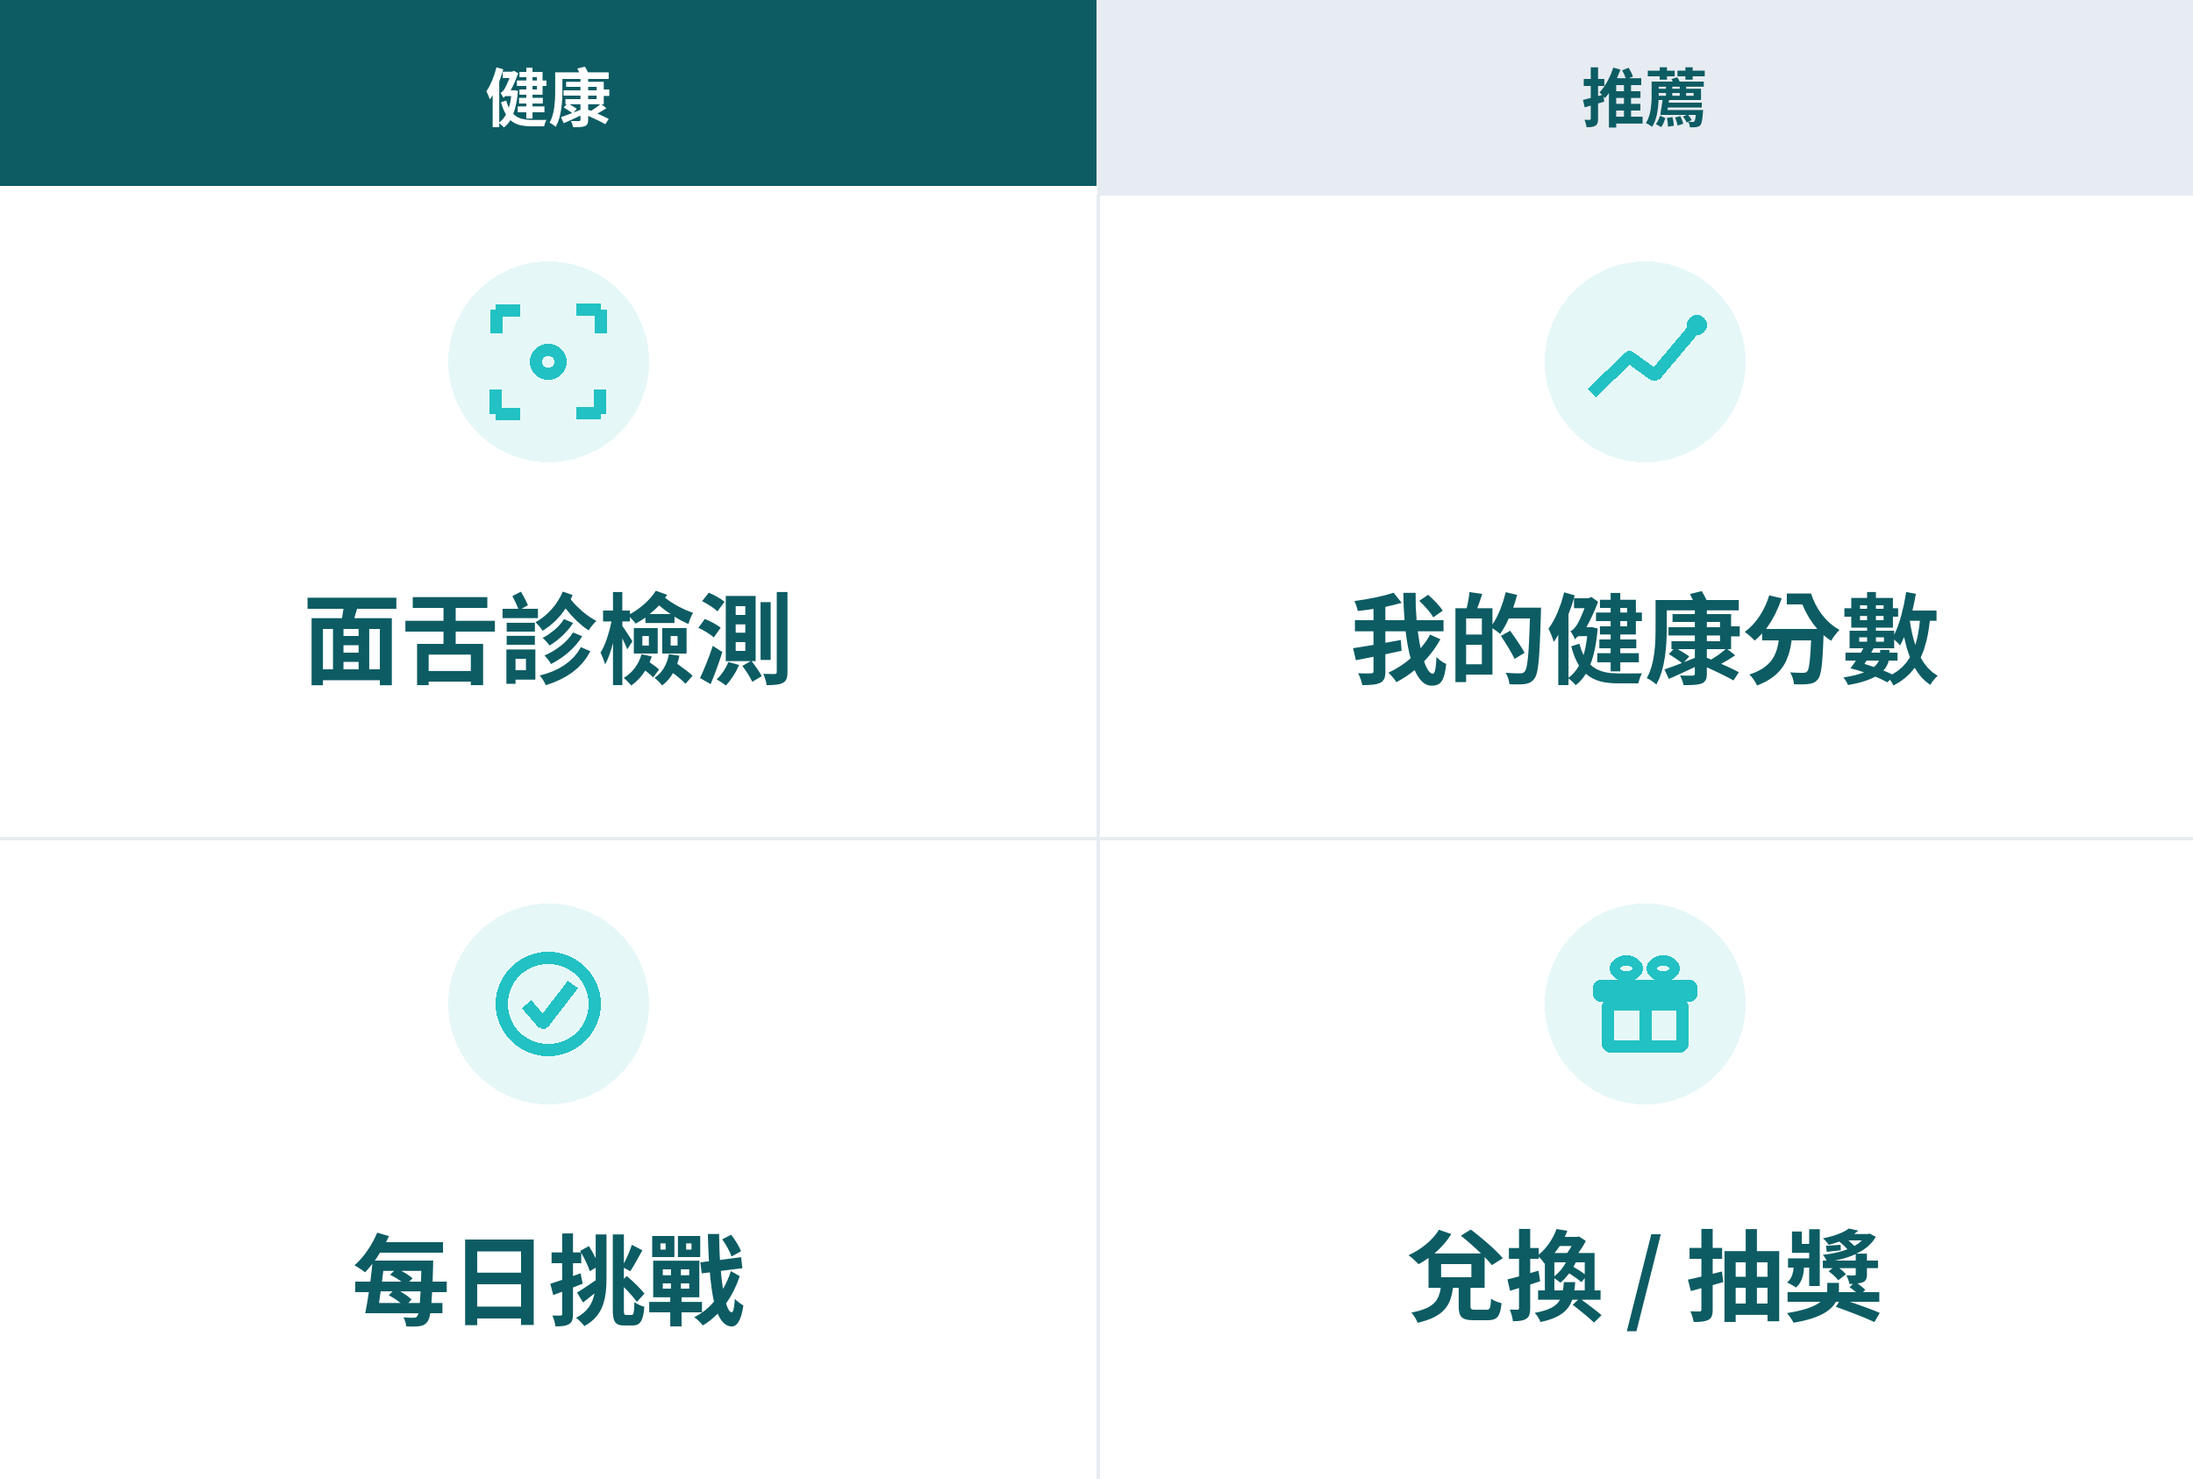
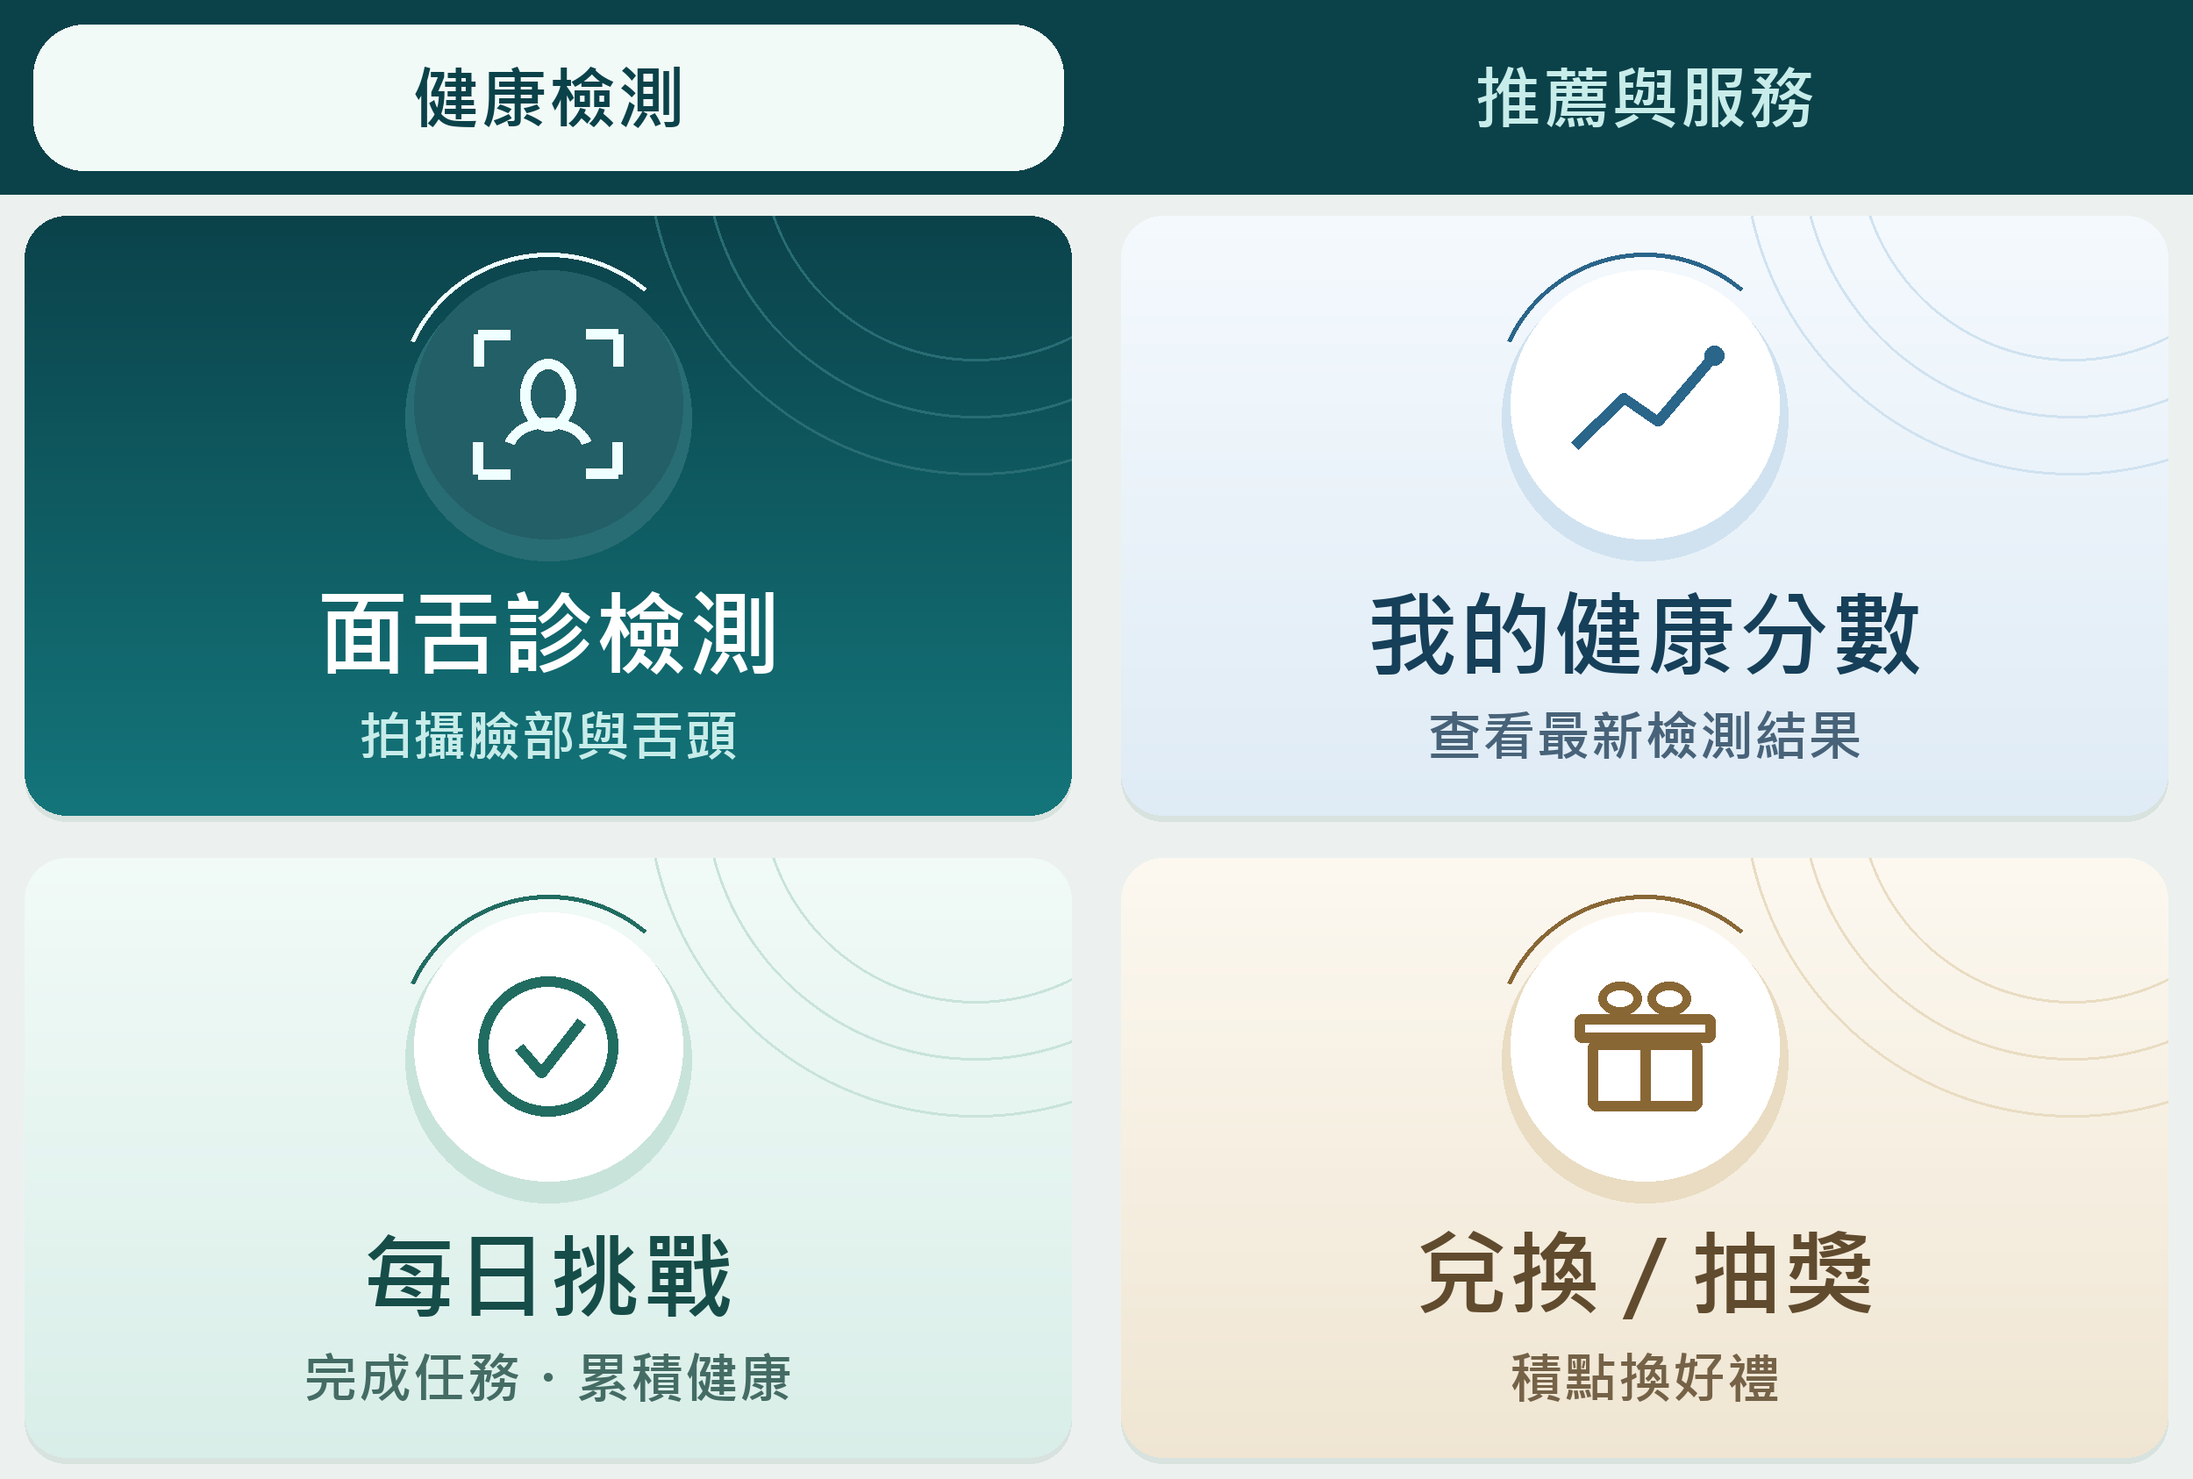
design: refresh LINE rich menus and information cards

diff --git a/supabase/functions/_shared/line.ts b/supabase/functions/_shared/line.ts
@@ -29,7 +29,10 @@ export const C = {
   pale:     "#E6F7F8",   // 健康青淡底(補)
   textDark: "#0D5C63",
   textMid:  "#41565F",   // 內文(補)
-  textSoft: "#8FA3B8",   // 藍灰 — 只用在小字
+  textSoft: "#526B75",   // 深藍灰 — 小字也維持可讀對比
+  surface:  "#F1F7F5",   // 淡青底 — 區分卡片與內容區
+  border:   "#D8E6E2",
+  deepEnd:  "#13757A",
   alert:    "#D9534F",
 };
 
@@ -133,14 +136,14 @@ type Btn = { label: string; action: LineMessage; primary?: boolean; tone?: Tone 
 
 const TONE_STYLE: Record<Tone, { style: string; color: string }> = {
   deep: { style: "primary",   color: C.deep },
-  mid:  { style: "primary",   color: C.primary },
+  mid:  { style: "primary",   color: "#16787B" },
   soft: { style: "secondary", color: C.pale },
 };
 
 export function button({ label, action, primary = false, tone }: Btn): LineMessage {
   const t = tone
     ? TONE_STYLE[tone]
-    : { style: primary ? "primary" : "secondary", color: primary ? C.primary : C.bgAlt };
+    : { style: primary ? "primary" : "secondary", color: primary ? C.deep : C.pale };
   return {
     type: "button",
     style: t.style,
@@ -170,25 +173,24 @@ export function infoCard(opts: {
   buttons?: Btn[];
   altText?: string;
 }): LineMessage {
-  const body: LineMessage[] = [
-    { type: "text", text: opts.title, weight: "bold", size: "lg", color: C.textDark, wrap: true },
-  ];
+  const body: LineMessage[] = [];
 
   if (opts.subtitle) {
     body.push({
       type: "text", text: opts.subtitle, size: "sm",
-      color: C.textMid, wrap: true, margin: "sm",
+      color: C.textMid, wrap: true,
     });
   }
 
   if (opts.bigValue) {
     body.push({
-      type: "box", layout: "vertical", margin: "lg", spacing: "none",
-      backgroundColor: C.pale, cornerRadius: "md", paddingAll: "12px",
+      type: "box", layout: "vertical", margin: "lg", spacing: "sm",
+      backgroundColor: C.bg, cornerRadius: "16px", paddingAll: "20px",
+      borderColor: C.border, borderWidth: "1px",
       contents: [
-        { type: "text", text: opts.bigValue, size: "xxl", weight: "bold", color: C.deep, align: "center" },
+        { type: "text", text: opts.bigValue, size: "xxl", weight: "bold", color: C.deep, align: "center", wrap: true },
         ...(opts.bigLabel
-          ? [{ type: "text", text: opts.bigLabel, size: "xs", color: C.textSoft, align: "center" }]
+          ? [{ type: "text", text: opts.bigLabel, size: "sm", color: C.textSoft, align: "center", wrap: true }]
           : []),
       ],
     });
@@ -196,14 +198,16 @@ export function infoCard(opts: {
 
   if (opts.rows?.length) {
     body.push({
-      type: "box", layout: "vertical", margin: "lg", spacing: "sm",
+      type: "box", layout: "vertical", margin: "lg", spacing: "md",
+      backgroundColor: C.bg, paddingAll: "16px", cornerRadius: "16px",
+      borderColor: C.border, borderWidth: "1px",
       contents: opts.rows.map((r) => ({
-        type: "box", layout: "horizontal",
+        type: "box", layout: "horizontal", spacing: "md",
         contents: [
           { type: "text", text: r.label, size: "sm", color: C.textMid, flex: 3, wrap: true },
           {
             type: "text", text: r.value, size: "sm", flex: 2, align: "end",
-            weight: "bold", color: r.accent ? C.primary : C.textDark, wrap: true,
+            weight: "bold", color: r.accent ? "#16787B" : C.textDark, wrap: true,
           },
         ],
       })),
@@ -219,8 +223,20 @@ export function infoCard(opts: {
 
   const bubble: Record<string, unknown> = {
     type: "bubble",
-    body: { type: "box", layout: "vertical", backgroundColor: C.bg, paddingAll: "18px", contents: body },
-    styles: { body: { backgroundColor: C.bg }, footer: { backgroundColor: C.bg } },
+    header: {
+      type: "box", layout: "vertical", paddingAll: "20px", spacing: "sm",
+      backgroundColor: C.deep,
+      background: { type: "linearGradient", angle: "120deg", startColor: C.deep, endColor: C.deepEnd },
+      contents: [
+        { type: "text", text: "看·健  /  健康顧問", size: "xs", color: "#D8F2EE", wrap: true },
+        { type: "text", text: opts.title, weight: "bold", size: "xl", color: C.bg, wrap: true },
+      ],
+    },
+    ...(body.length ? { body: {
+      type: "box", layout: "vertical", backgroundColor: C.surface,
+      paddingAll: "20px", contents: body,
+    } } : {}),
+    styles: { header: { backgroundColor: C.deep }, body: { backgroundColor: C.surface }, footer: { backgroundColor: C.surface } },
   };
 
   if (opts.hero) {
@@ -230,7 +246,7 @@ export function infoCard(opts: {
   if (opts.buttons?.length) {
     bubble.footer = {
       type: "box", layout: "vertical", spacing: "sm",
-      backgroundColor: C.bg, paddingAll: "14px",
+      backgroundColor: C.surface, paddingAll: "16px",
       contents: opts.buttons.map(button),
     };
   }

diff --git a/scripts/line/make-richmenu-images.py b/scripts/line/make-richmenu-images.py
@@ -16,6 +16,7 @@
 """
 
 from pathlib import Path
+import json
 from PIL import Image, ImageDraw, ImageFont
 
 ROOT = Path(__file__).resolve().parents[2]
@@ -115,11 +116,11 @@ def center_text(d, box, text, f, fill):
             y + (h - (bottom - top)) / 2 - top), text, font=f, fill=fill)
 
 
-def draw_icon(d, cx, cy, r, kind):
+def draw_icon(d, cx, cy, r, kind, ink=ICON_COL, plate=ICON_BG):
     """簡單的線條 icon。畫在半徑 r 的底圈中央;線寬跟著 r 等比縮放。"""
-    d.ellipse([cx - r, cy - r, cx + r, cy + r], fill=ICON_BG)
+    d.ellipse([cx - r, cy - r, cx + r, cy + r], fill=plate)
     # 9 是半徑 76 時的線寬。放大底圈卻不加粗線條,icon 會顯得比原本更虛。
-    c, lw = ICON_COL, max(3, round(9 * r / 76))
+    c, lw = ink, max(3, round(6 * r / 76))
     s = r * 0.52   # icon 本體的半徑
 
     if kind == "scan":            # 掃描框 + 中央圓(面舌診)
@@ -127,8 +128,10 @@ def draw_icon(d, cx, cy, r, kind):
             x, y = cx + dx * s, cy + dy * s
             d.line([x, y, x - dx * s * 0.45, y], fill=c, width=lw)
             d.line([x, y, x, y - dy * s * 0.45], fill=c, width=lw)
-        d.ellipse([cx - s * 0.34, cy - s * 0.34, cx + s * 0.34, cy + s * 0.34],
+        d.ellipse([cx - s * 0.40, cy - s * 0.65, cx + s * 0.40, cy + s * 0.38],
                   outline=c, width=lw)
+        d.arc([cx - s * 0.64, cy + s * 0.20, cx + s * 0.64, cy + s * 1.1],
+              195, 345, fill=c, width=lw)
     elif kind == "doc":           # 文件 + 三條線
         d.rounded_rectangle([cx - s * 0.72, cy - s, cx + s * 0.72, cy + s],
                             radius=12, outline=c, width=lw)
@@ -233,45 +236,80 @@ def draw_icon(d, cx, cy, r, kind):
         d.line([rx - (rx - lx) / 3, top, cx, bot], fill=c, width=lw - 3)
 
 
+# Presentation only: labels and hit geometry are read from the live config.
+DETAILS = {
+    "scan": ("拍攝臉部與舌頭", "deep"),
+    "chart": ("查看最新檢測結果", "blue"),
+    "check": ("完成任務・累積健康", "mint"),
+    "gift": ("積點換好禮", "sand"),
+    "ticket": ("查看可用檢測次數", "mint"),
+    "doctor": ("健康問題・專人協助", "deep"),
+    "people": ("查看好友推薦紀錄", "blue"),
+    "share": ("邀請好友一起加入", "sand"),
+}
+PALETTES = {
+    "deep": ("#0B424A", "#13757A", "#FFFFFF", "#C7ECE9", "#286D73", "#F0FFFF"),
+    "blue": ("#F4F9FD", "#DFEBF5", "#163F59", "#486379", "#D0E2F0", "#2A658A"),
+    "mint": ("#F1FAF7", "#D9EEE8", "#164D49", "#446C64", "#C8E3DA", "#216C61"),
+    "sand": ("#FCF8F0", "#EFE5D2", "#614B2E", "#756247", "#E9DCC2", "#896735"),
+}
+
+
+def rgb(value):
+    return tuple(int(value[i:i+2], 16) for i in (1, 3, 5))
+
+
+def gradient(size, first, last):
+    strip = Image.new("RGB", (1, size[1]))
+    a, b = rgb(first), rgb(last)
+    strip.putdata([tuple(round(a[k] + (b[k]-a[k])*y/(size[1]-1))
+                         for k in range(3)) for y in range(size[1])])
+    return strip.resize(size)
+
+
 def build(tab):
-    img = Image.new("RGB", (W, H), BG)
+    config = json.loads((ROOT / "scripts/line/richmenu-config.json").read_text(encoding="utf-8"))
+    layout = config["layout"]
+    assert config["canvas"] == {"width": W, "height": H}
+    assert (layout["tabBarHeight"], layout["cellHeight"], layout["cols"], layout["rows"]) == (TAB_H, CELL_H, COLS, ROWS)
+    source = next(t for t in config["tabs"] if t["key"] == tab["key"])
+    assert len(source["cells"]) == len(tab["cells"]) == COLS * ROWS
+    img = Image.new("RGB", (W, H), "#ECF1EF")
     d = ImageDraw.Draw(img)
-
-    # ── 分頁列 ──
-    tab_w = W // 2
+    d.rectangle((0, 0, W, TAB_H-1), fill="#0B424A")
     for i, label in enumerate(tab["tab_labels"]):
-        x0 = tab_w * i
-        x1 = W if i == 1 else tab_w
-        on = (i == tab["active"])
-        d.rectangle([x0, 0, x1, TAB_H], fill=TAB_ON if on else TAB_OFF)
-        center_text(d, (x0, 0, x1 - x0, TAB_H), label, font(72),
-                    WHITE if on else TEXT_DARK)
-    # 選中分頁底部加一條白線,狀態更明顯
-    ax0 = tab_w * tab["active"]
-    d.rectangle([ax0, TAB_H - 10, ax0 + (W - ax0 if tab["active"] == 1 else tab_w), TAB_H],
-                fill=WHITE)
+        x = i * 1250
+        on = i == tab["active"]
+        if on:
+            d.rounded_rectangle((x+38, 28, x+1212, TAB_H-28), radius=58, fill="#F1FAF7")
+        center_text(d, (x, 20, 1250, TAB_H-40),
+                    "健康檢測" if i == 0 else "推薦與服務", font(78),
+                    "#0B424A" if on else "#C7ECE9")
 
-    # ── 六格 ──
-    # 版面配比:上 1/3 放小貼圖,下 2/3 放字。
-    # 手機上圖文選單一格只有指甲大,字才是使用者真正在讀的東西,
-    # icon 只要能認出是哪一類就夠,不需要跟字搶空間。
-    ICON_R = 114                 # 原本 76,放大 1.5 倍
-    for idx, (label, icon) in enumerate(tab["cells"]):
-        r, c = divmod(idx, COLS)
-        x, y, w = COL_X[c], ROW_Y[r], COL_W[c]
-
-        # 格線(內側畫,不會蓋到相鄰格)
-        if c > 0:
-            d.rectangle([x, y, x + 3, y + CELL_H], fill=LINE_COL)
-        if r > 0:
-            d.rectangle([x, y, x + w, y + 3], fill=LINE_COL)
-
-        # 上 1/3:小貼圖。整組(圖+字)在格子裡垂直置中,不要上擠下空。
-        draw_icon(d, x + w / 2, y + CELL_H * 0.26, ICON_R, icon)
-        # 下 2/3:標籤,字級自動縮到塞得下為止
-        f_label = fit_font(d, label, w - 70, 112)
-        center_text(d, (x, y + CELL_H * 0.50, w, CELL_H * 0.38), label, f_label, TEXT_DARK)
-
+    for idx, (cell, (_, icon)) in enumerate(zip(source["cells"], tab["cells"])):
+        row, col = divmod(idx, COLS)
+        x, y = COL_X[col]+28, ROW_Y[row]+24
+        cw, ch = 1194, CELL_H-48
+        caption, theme = DETAILS[icon]
+        top, bottom, ink, muted, plate, icon_ink = PALETTES[theme]
+        tile = gradient((cw, ch), top, bottom)
+        td = ImageDraw.Draw(tile)
+        # Low contrast contour rings add depth away from the text area.
+        for radius in (245, 310, 375):
+            td.ellipse((cw-110-radius, -80-radius, cw-110+radius, -80+radius), outline=plate, width=3)
+        cx, cy, radius = cw//2, 215, 153
+        td.ellipse((cx-radius-10, cy-radius+5, cx+radius+10, cy+radius+25), fill=plate)
+        draw_icon(td, cx, cy, radius, icon, ink=icon_ink,
+                  plate="#235F66" if theme == "deep" else "#FFFFFF")
+        td.arc((cx-radius-20, cy-radius-20, cx+radius+20, cy+radius+20), 205, 310,
+               fill=icon_ink, width=5)
+        center_text(td, (40, 411, cw-80, 130), cell["label"],
+                    fit_font(td, cell["label"], cw-100, 106), ink)
+        center_text(td, (40, 548, cw-80, 88), caption, font(62), muted)
+        mask = Image.new("L", tile.size)
+        ImageDraw.Draw(mask).rounded_rectangle((0, 0, cw-1, ch-1), radius=48, fill=255)
+        d.rounded_rectangle((x, y+7, x+cw-1, y+ch+6), radius=48, fill="#D8E2DE")
+        img.paste(tile, (x, y), mask)
     return img
 
 
@@ -284,7 +322,7 @@ def main():
         kb = path.stat().st_size / 1024
         print(f"✔ {path.relative_to(ROOT)}  {img.size[0]}x{img.size[1]}  {kb:.0f} KB")
         if kb > 1024:
-            print("  ⚠ 超過 LINE 的 1MB 上限,需要壓縮")
+            raise SystemExit("圖片超過 1MB，請先壓縮再上傳")
 
 
 if __name__ == "__main__":

diff --git a/docs/LINE_VISUAL_REFRESH.md b/docs/LINE_VISUAL_REFRESH.md
@@ -1,0 +1,38 @@
+# LINE 圖文選單與資訊卡視覺更新
+
+## 設計
+
+- 沿用「看·健」深海青，新增霧藍、薄荷綠、暖米色分區。
+- 兩分頁仍為 2500 × 1686、頂部分頁列 222px、四格各 1250 × 732px；所有 LIFF、postback、alias 及點擊座標不變。
+- 大圖示、清楚的主標題及一行功能說明；圓角、淺陰影與低對比輪廓線提供背景層次。
+- `infoCard` 改為深青漸層標題、淡青底、白色數值及資料區。採用 LINE 原生 Flex 元件，無新增圖片下載依賴。
+- 保留 hero、altText、文字內容、按鈕 action、扣點二次確認及 carousel 上限。長分數與說明可換行。
+- 主要按鈕與小字加深顏色，避免亮青底白字或過淡提示文字。
+
+## 重製與檢查
+
+需要 Python、Pillow，以及 Noto Sans CJK TC Bold 或 Windows 微軟正黑體 Bold：
+
+```sh
+python -X utf8 scripts/line/make-richmenu-images.py
+node scripts/line/setup-richmenu.mjs --dry-run
+```
+
+圖片名稱維持原路徑：
+
+- `img/richmenu-health.png`
+- `img/richmenu-reward.png`
+
+本次輸出約 168 KB / 159 KB。產圖時會核對設定檔幾何並檢查 1MB 檔案門檻；中文標籤取自設定檔。
+
+已在本機比對五種卡片（分數、任務、推薦、僅標題、圖片與長文）的原有文字、actions、hero 與 altText；另比對確認卡 actions 與 carousel 上限。Node 24 可載入共用 TypeScript 模組；測試以空白環境 stub 隔離 Deno，不讀憑證、不發送訊息。
+
+HTML 預覽只近似 Flex 的呈現；已檢視桌面與手機寬度，並非 LINE 真機或官方 API 驗證。合併前仍建議用 LINE Flex Simulator 和測試帳號確認長文、圖片、不同字級及多按鈕卡片。
+
+## 上線
+
+本次僅準備獨立分支，不部署、不發送訊息。
+
+合併 main 會依既有 workflow 部署靜態網站與 Edge Functions；圖文選單須另外手動執行「🍱 重建圖文選單」。既有重建腳本會先刪舊選單，可能短暫空白，請安排適當時間。不可只更新 PNG 就視為 LINE 選單已上線。
+
+參考：LINE 官方 [Flex 漸層背景](https://developers.line.biz/en/docs/messaging-api/flex-message-layout/#linear-gradient-backgrounds)。
